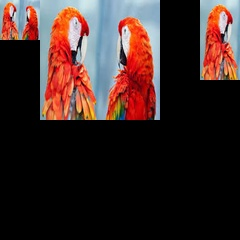
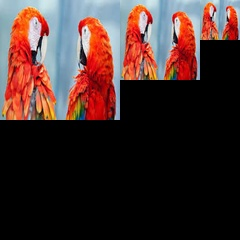
fix(resizing): working resizing

diff --git a/cmd/secondary/main.go b/cmd/secondary/main.go
@@ -46,14 +46,14 @@ func main() {
 			go resize.Resize(images[x], val, imgCh)
 
 		}
-
-		a := <-imgCh
-		b := <-imgCh
-		d := <-imgCh
 		dst := imaging.New(240, 240, color.NRGBA{0, 0, 0, 0})
-		dst = imaging.Paste(dst, a, image.Pt(0, 0))
-		dst = imaging.Paste(dst, b, image.Pt(a.Bounds().Size().X, 0))
-		dst = imaging.Paste(dst, d, image.Pt(b.Bounds().Size().X+d.Bounds().Size().X, 0))
+		widthStart := 0
+		for x := 0; x < 3; x++ {
+			a := <-imgCh
+			dst = imaging.Paste(dst, a, image.Pt(widthStart, 0))
+			widthStart = widthStart + a.Bounds().Size().X
+		}
+
 		err = imaging.Save(dst, "./lol.jpeg")
 		if err != nil {
 			return err
